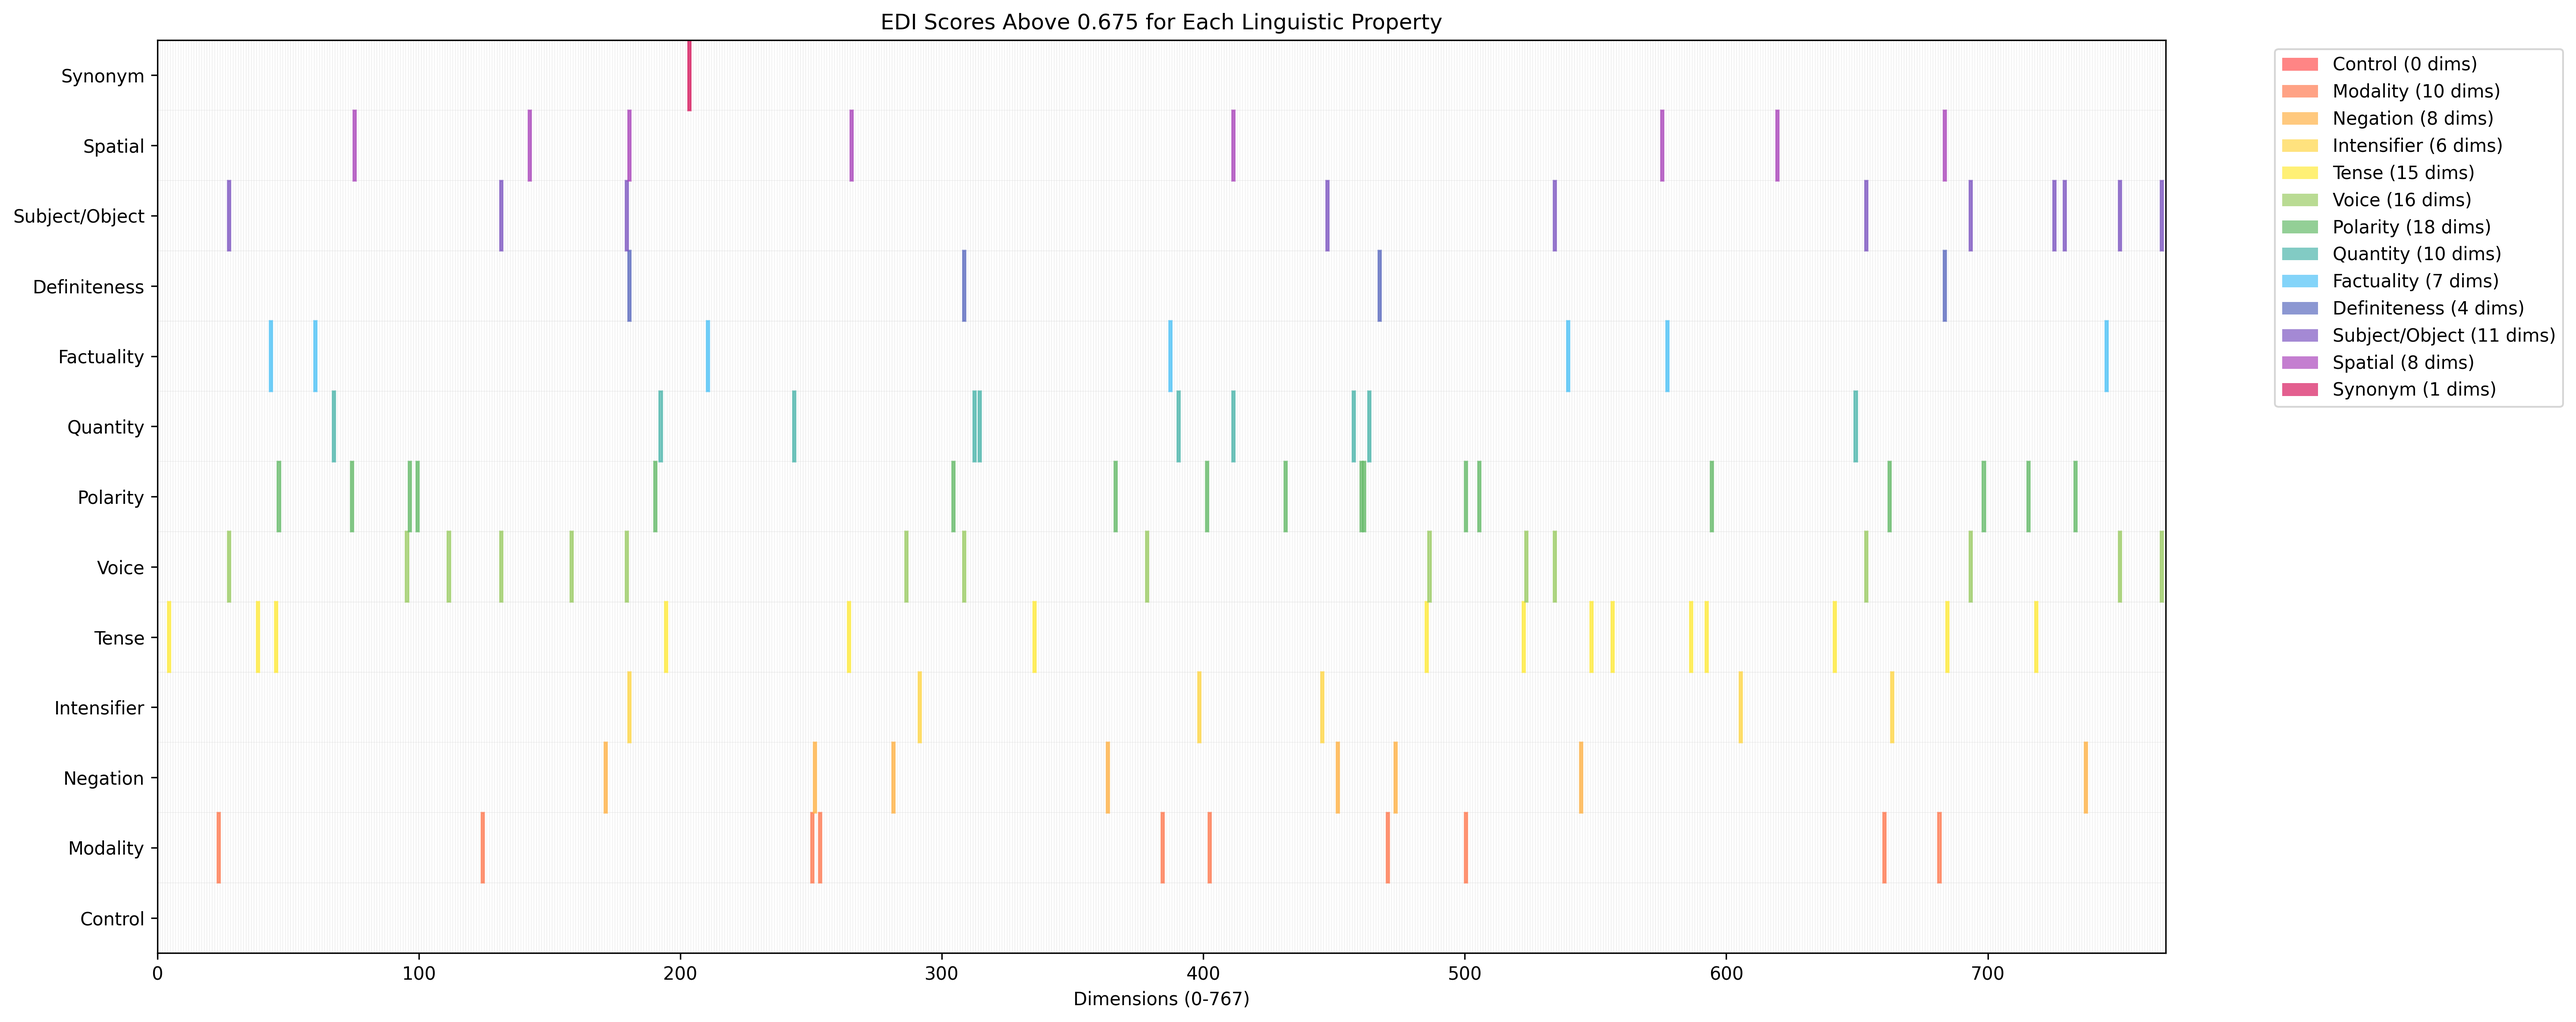
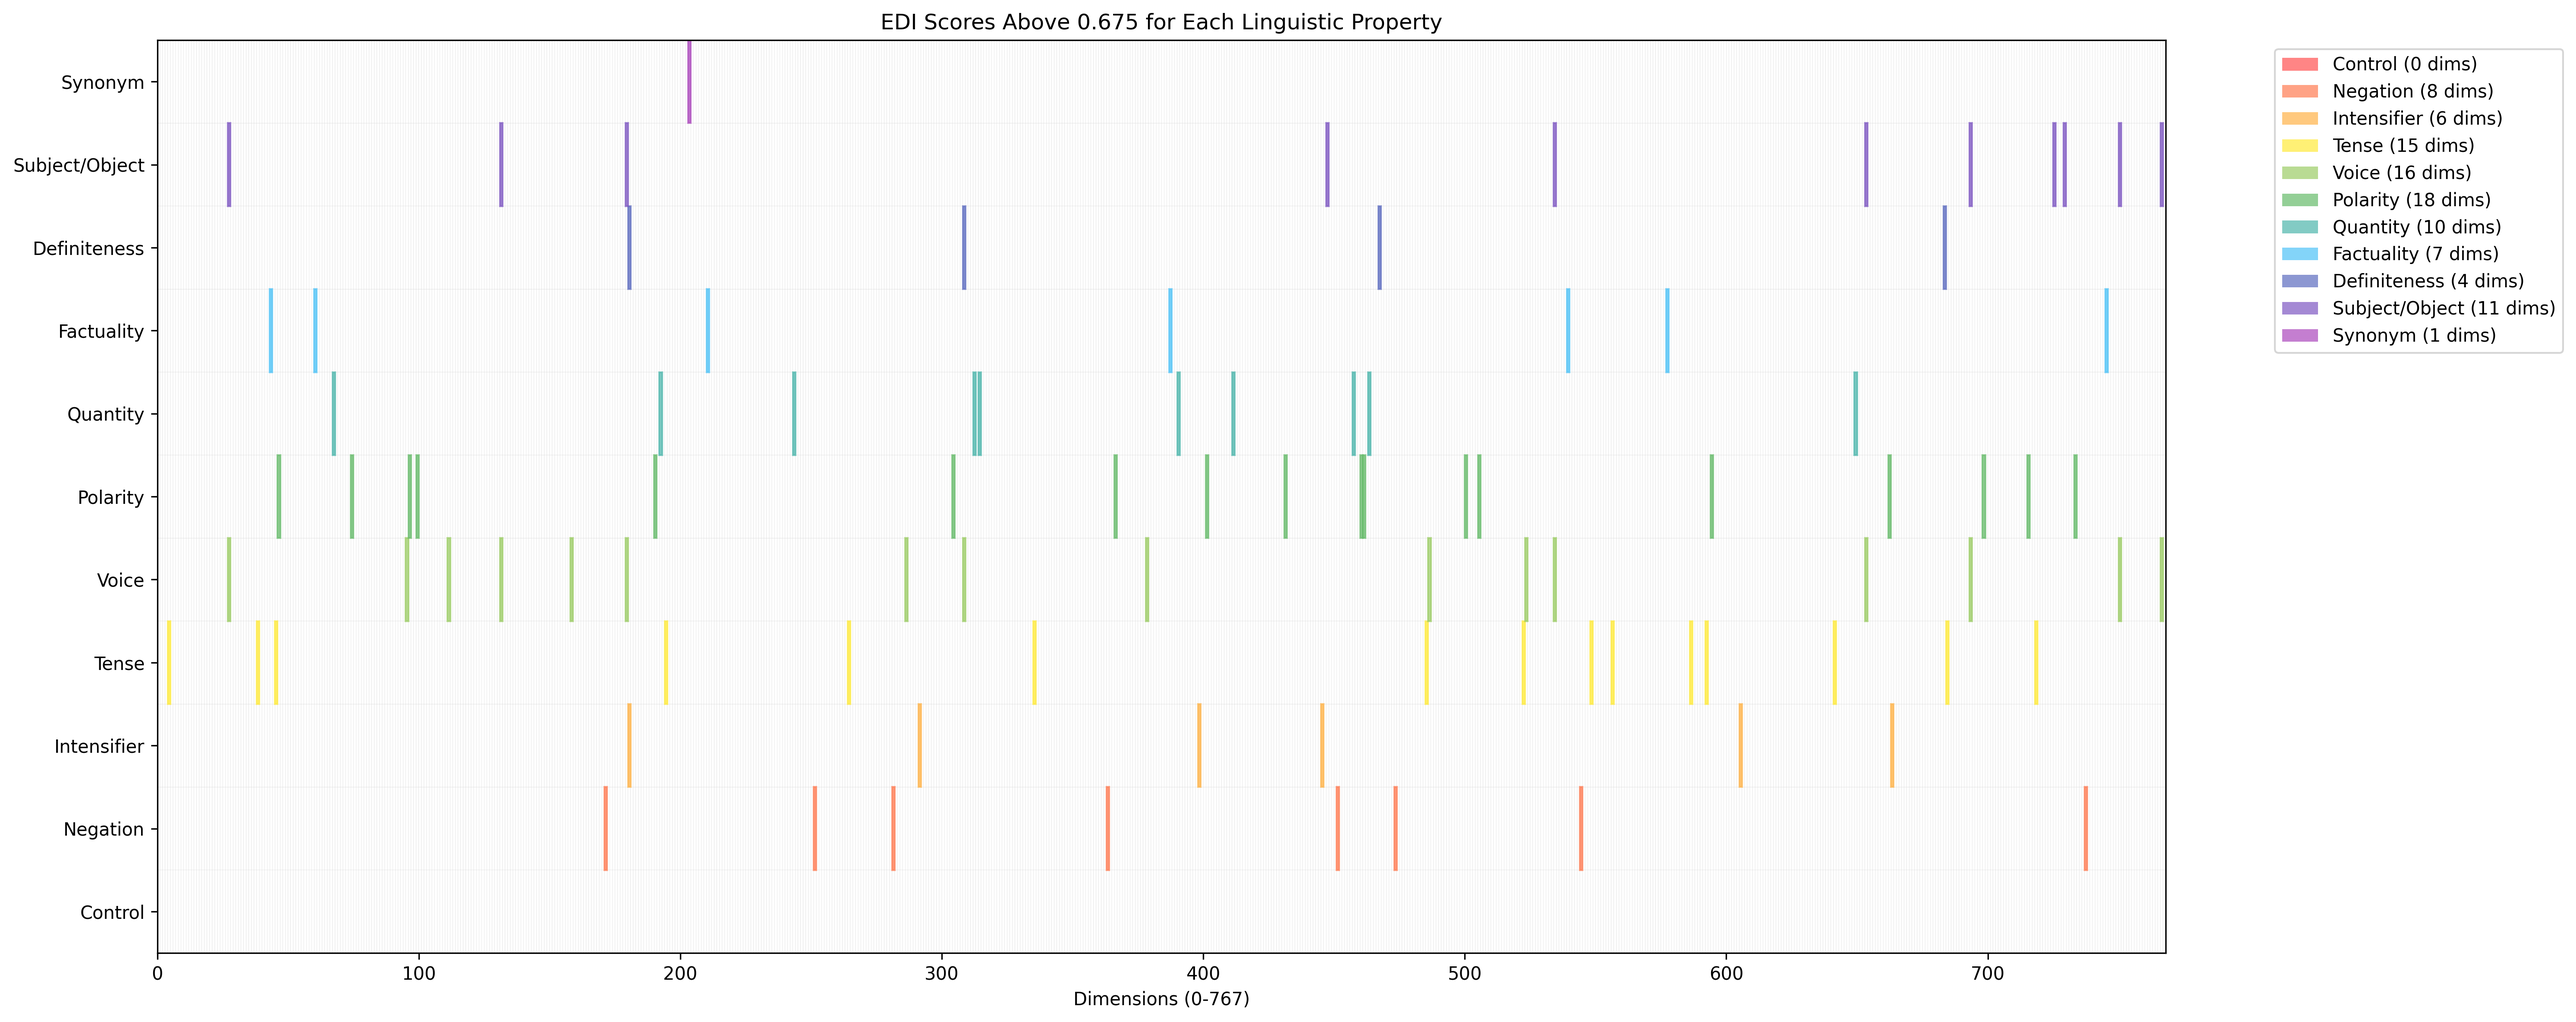
remove unused ldsps

diff --git a/plot_all_lps.py b/plot_all_lps.py
@@ -11,7 +11,6 @@ def create_edi_comparison_table(embedding_dim):
     # Define the linguistic properties and their file paths
     properties = {
         'Control': 'results/control/edi_scores/edi_score.csv',
-        'Modality': 'results/modality/edi_scores/edi_score.csv',
         'Negation': 'results/negation/edi_scores/edi_score.csv',
         'Intensifier': 'results/intensifier/edi_scores/edi_score.csv',
         'Tense': 'results/tense/edi_scores/edi_score.csv',
@@ -21,7 +20,6 @@ def create_edi_comparison_table(embedding_dim):
         'Factuality': 'results/factuality/edi_scores/edi_score.csv',
         'Definiteness': 'results/definiteness/edi_scores/edi_score.csv',
         'Subject/Object': 'results/subjectObject/edi_scores/edi_score.csv',
-        'Spatial': 'results/spatial/edi_scores/edi_score.csv',
         'Synonym': 'results/synonym/edi_scores/edi_score.csv'
     }
     
@@ -73,7 +71,6 @@ def create_colored_top_values(df, threshold=0.675):
         '#FF5252',  # Red
         '#FF7B52',  # Red-Orange
         '#FFB347',  # Orange
-        '#FFD747',  # Yellow-Orange
         '#FFEB3B',  # Yellow
         '#9CCC65',  # Yellow-Green
         '#66BB6A',  # Green
@@ -81,7 +78,6 @@ def create_colored_top_values(df, threshold=0.675):
         '#4FC3F7',  # Light Blue
         '#5C6BC0',  # Blue
         '#7E57C2',  # Blue-Violet
-        '#AB47BC',  # Violet
         '#D81B60'   # Pink-Violet
     ]
     
@@ -132,7 +128,6 @@ def create_colored_grid(df, threshold=0.675):
         '#FF5252',  # Red
         '#FF7B52',  # Red-Orange
         '#FFB347',  # Orange
-        '#FFD747',  # Yellow-Orange
         '#FFEB3B',  # Yellow
         '#9CCC65',  # Yellow-Green
         '#66BB6A',  # Green
@@ -189,15 +184,15 @@ def create_colored_grid(df, threshold=0.675):
 
 
 if __name__ == "__main__":
-    # combined_scores = create_edi_comparison_table(768)
-    # print(f"Created table with shape: {combined_scores.shape}")
-    # print("\nFirst few columns of the table:")
-    # print(combined_scores.iloc[:, :5])
+    df = create_edi_comparison_table(768)
+    print(f"Created table with shape: {df.shape}")
+    print("\nFirst few columns of the table:")
+    print(df.iloc[:, :5])
 
-    df = pd.read_csv('results/combined_edi_scores.csv', index_col=0)
+    # df = pd.read_csv('results/combined_edi_scores.csv', index_col=0)
 
-    # create_highlighted_heatmap(df)
-    # print("Created heatmap at 'results/edi_scores_heatmap.png'")
+    create_highlighted_heatmap(df)
+    print("Created heatmap at 'results/edi_scores_heatmap.png'")
 
     create_colored_top_values(df)
     print("Created visualization at 'results/colored_top_edi_scores.png'")
